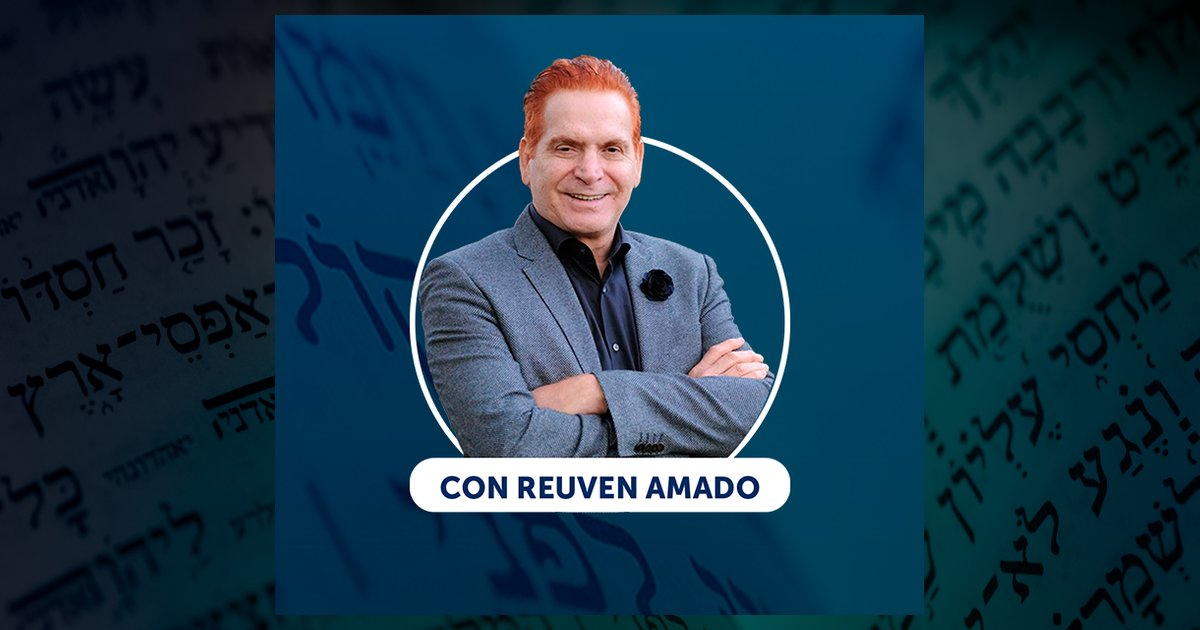
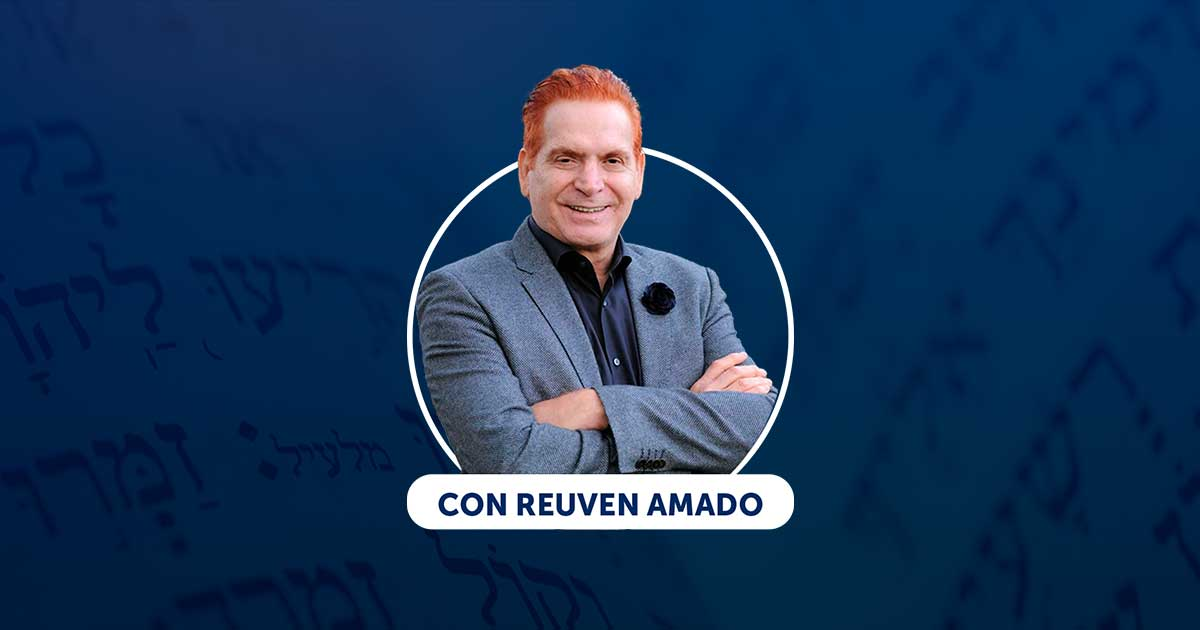
Nueva imagen de vista previa para compartir

diff --git a/index.html b/index.html
@@ -11,7 +11,7 @@
   <meta property="og:title" content="Curso GRATIS de Torá — Primer Nivel">
   <meta property="og:description" content="12 clases gratuitas con Reuven Amado. Comprende las Escrituras desde su raíz hebrea original.">
   <meta property="og:url" content="https://escuelamasoreta.github.io/curso-tora/">
-  <meta property="og:image" content="https://escuelamasoreta.github.io/curso-tora/assets/og-image.jpg">
+  <meta property="og:image" content="https://escuelamasoreta.github.io/curso-tora/assets/og-image.jpg?v=2">
   <meta property="og:image:width" content="1200">
   <meta property="og:image:height" content="630">
   <meta property="og:type" content="website">
